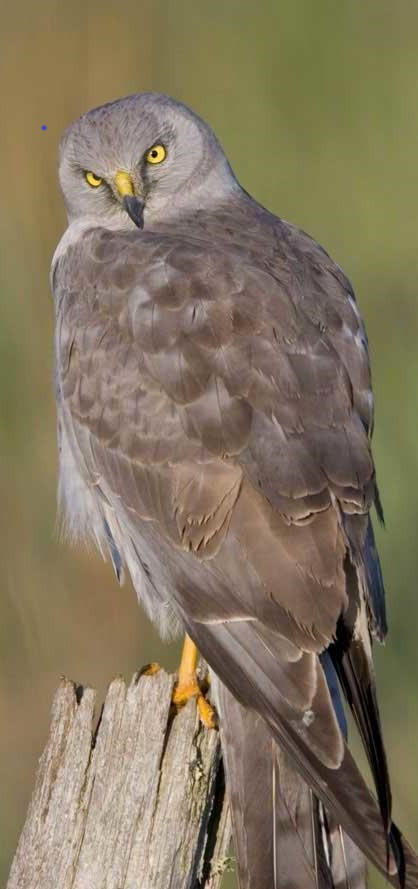
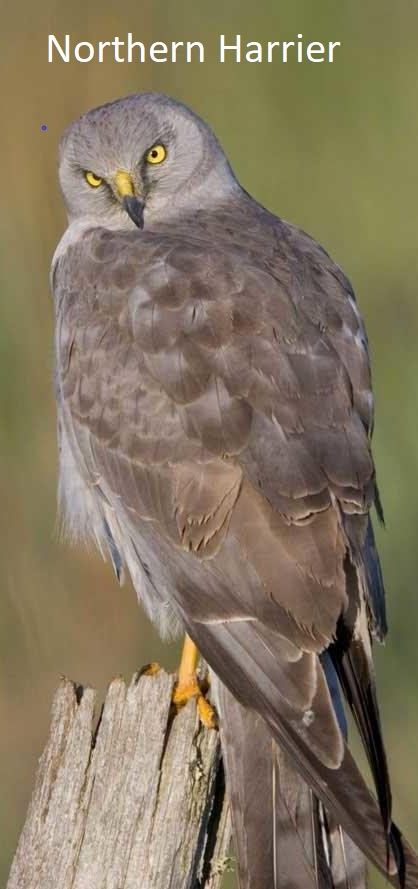
Updated look of bird select screen

Changed region(s): [[0.0933, 0.0304, 0.4976, 0.0911], [0.5287, 0.0304, 0.8086, 0.0911]]

diff --git a/src/mainpkg/BirdSelectorView.java b/src/mainpkg/BirdSelectorView.java
@@ -28,14 +28,19 @@ public class BirdSelectorView extends View{
 	//	frame.requestFocus();
 		frame.paint(getGraphics());
 		JTextArea title = new JTextArea("Select a bird.");
-		this.leftbutton = new JButton("Osprey");
-		this.rightbutton = new JButton("Northern Harrier");
+		this.leftbutton = new JButton();
+		this.rightbutton = new JButton();
+		this.leftbutton.setHorizontalTextPosition(JButton.CENTER);
+		this.leftbutton.setVerticalTextPosition(JButton.CENTER);
 		
 		this.leftbutton.setFont(new Font("Arial", Font.PLAIN, 50));
 		this.rightbutton.setFont(new Font("Arial", Font.PLAIN, 50));
 		
 		JPanel panel = new JPanel(new GridLayout(1, 2));
 		panel.setLayout(null);
+		
+		ImageIcon Osprey = new ImageIcon("GamePictures/BirdSelect/Osprey.jpg");
+		ImageIcon NH = new ImageIcon("GamePictures/BirdSelect/NorthernHarrier2.jpg");
 		
 		//Set size and location of buttons here
 		//this.leftbutton.setSize(500,100);
@@ -46,8 +51,8 @@ public class BirdSelectorView extends View{
 		this.leftbutton.setLocation(0,0);
 		this.rightbutton.setSize(frameWidth/2,frameHeight);
 		this.rightbutton.setLocation(frameWidth/2,0);
-		this.leftbutton.setIcon(new ImageIcon("GamePictures/BirdSelect/Osprey.jpg"));
-	    this.rightbutton.setIcon(new ImageIcon("GamePictures/BirdSelect/NorthernHarrier2.jpg"));
+		this.leftbutton.setIcon(new ImageIcon(Osprey.getImage().getScaledInstance(frameWidth/2, frameHeight, java.awt.Image.SCALE_SMOOTH)));
+	    this.rightbutton.setIcon(new ImageIcon(NH.getImage().getScaledInstance(frameWidth/2, frameHeight, java.awt.Image.SCALE_SMOOTH)));
 		panel.add(leftbutton);
 		panel.add(rightbutton);
 		frame.add(panel);
